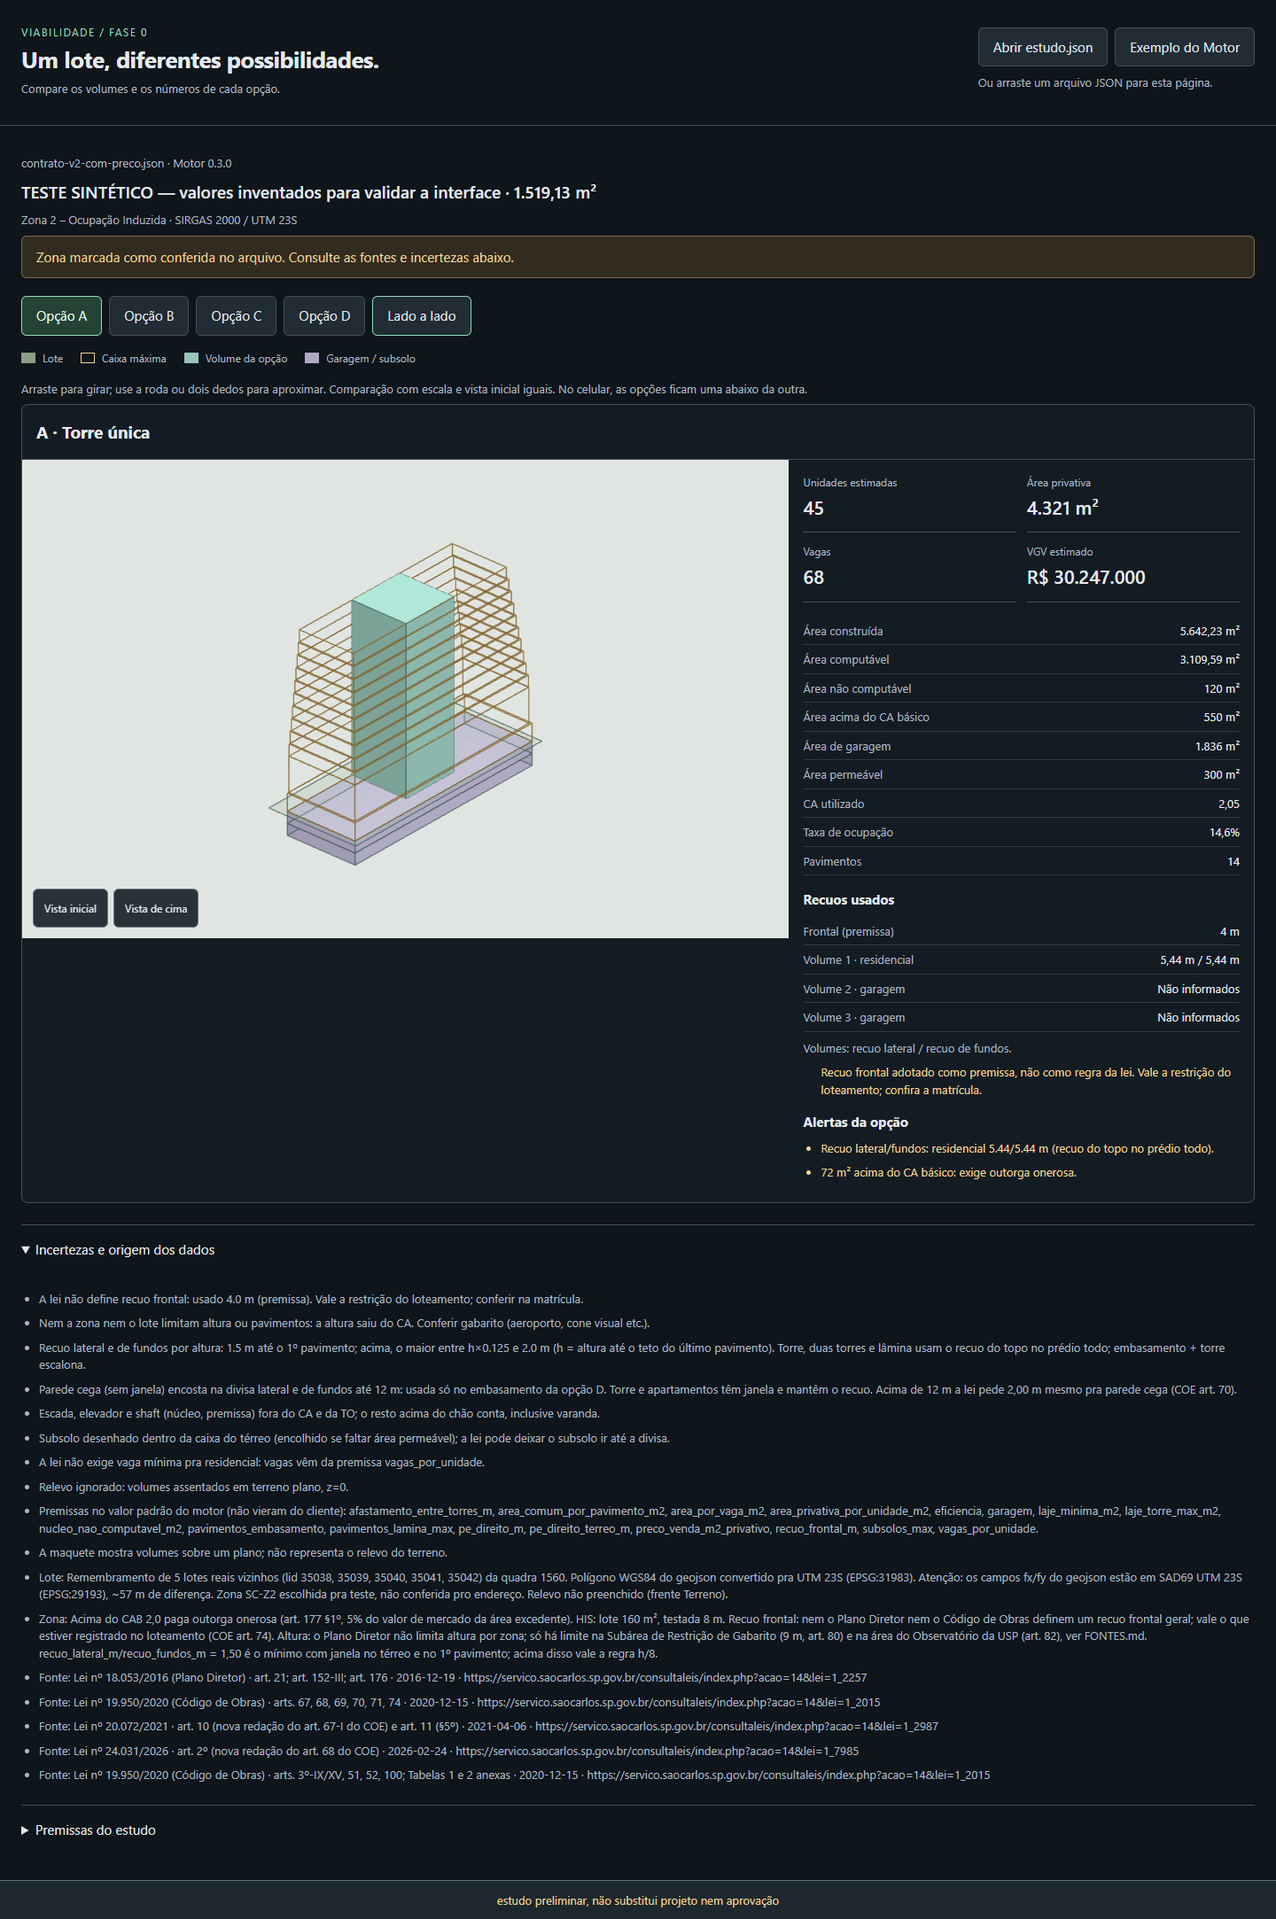
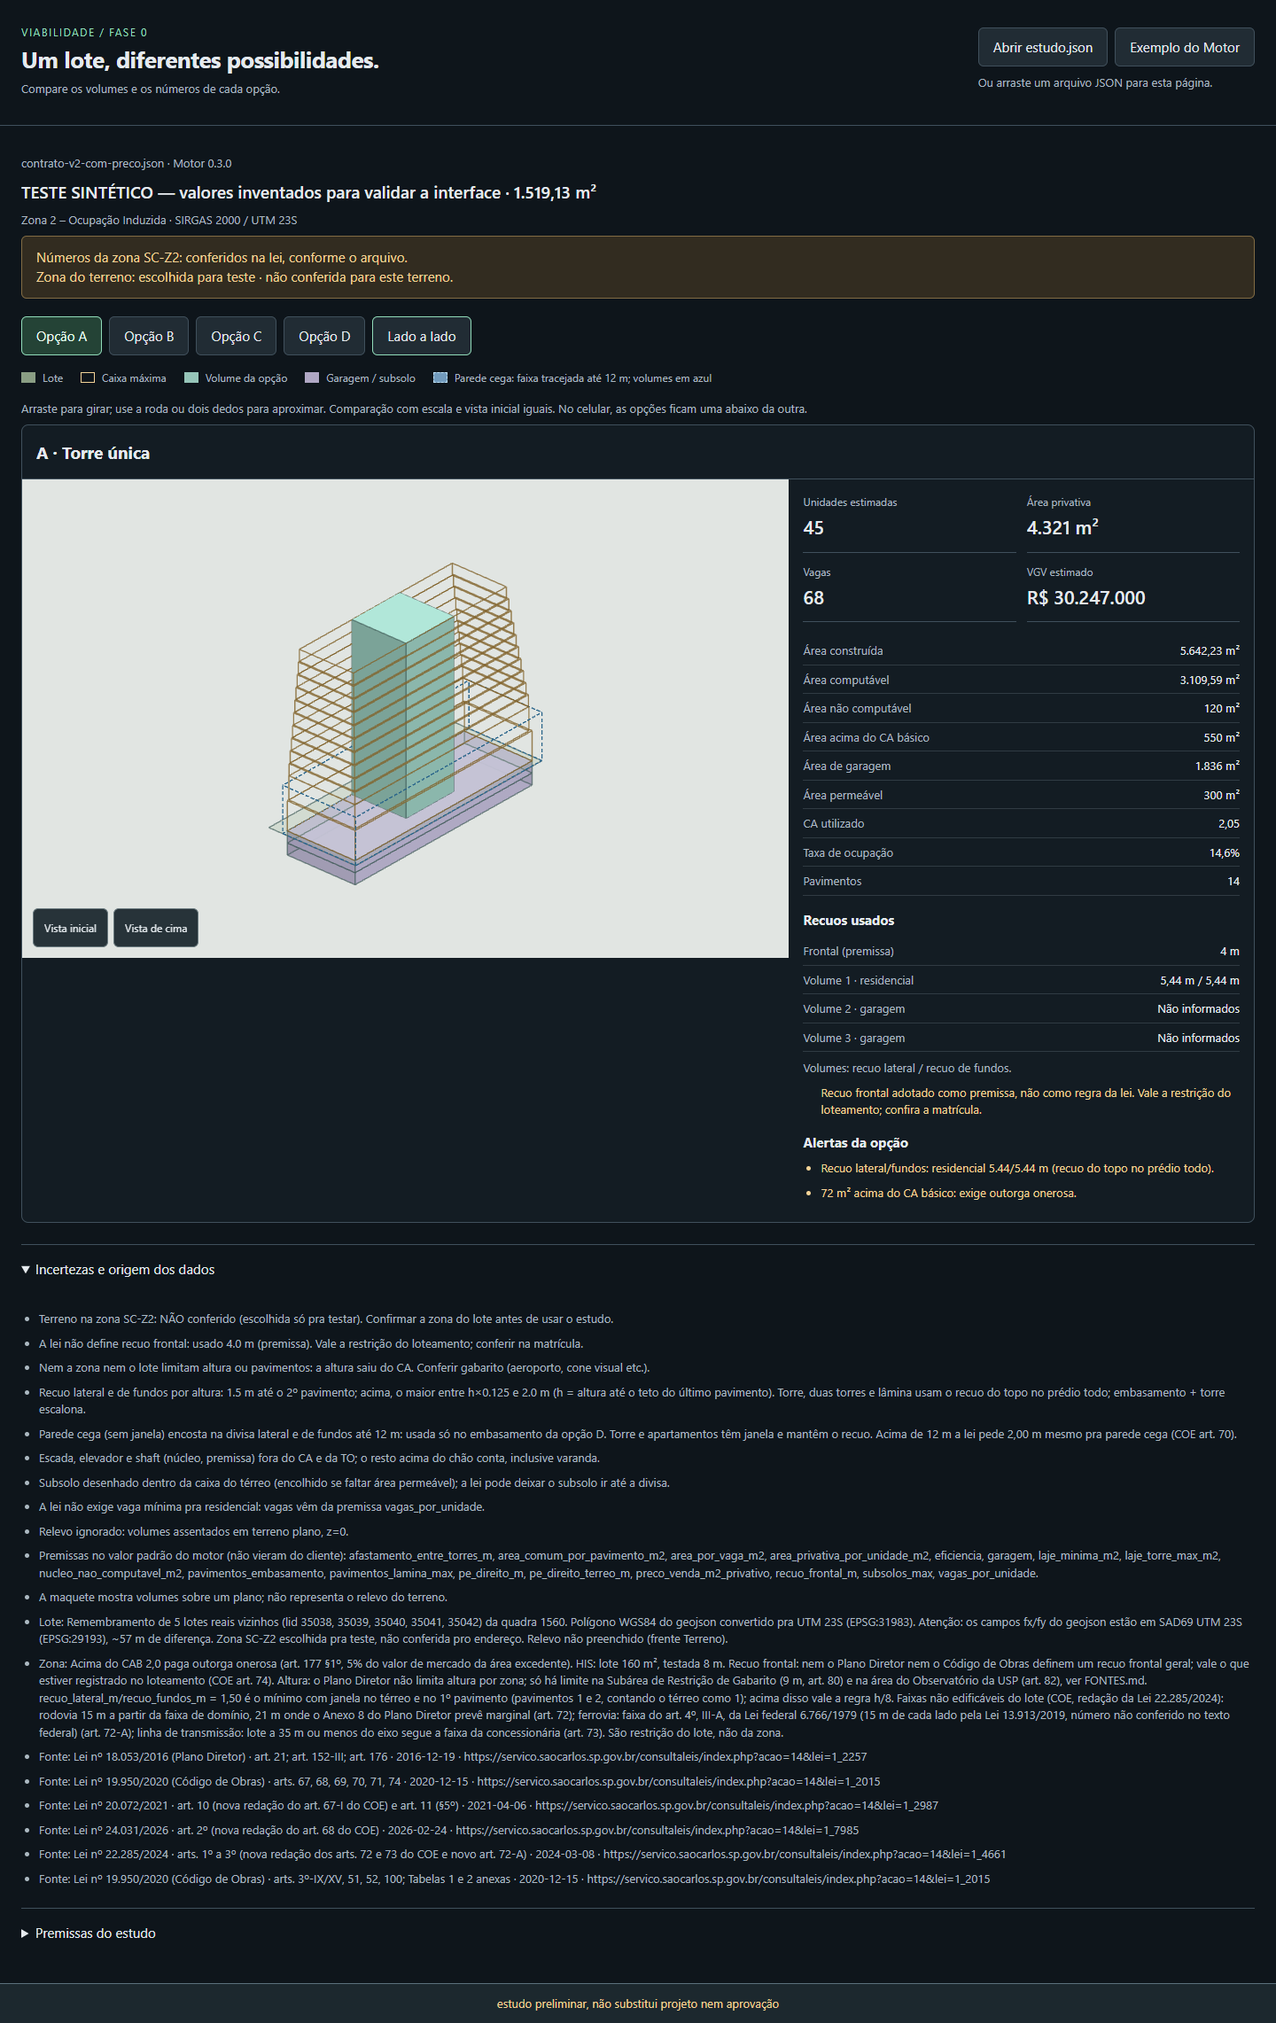
feat(viabilidade): aviso separa 'números da lei' de 'terreno nesta zona' e desenha a parede cega

diff --git a/viabilidade/visual/index.html b/viabilidade/visual/index.html
@@ -8,6 +8,7 @@
   <style>
     :root{color-scheme:dark;font:15px/1.5 system-ui,sans-serif;--page:#0e151b;--surface:#131c23;--raised:#212c34;--line:#40505c;--ink:#e5eaee;--muted:#abb8c1;--accent:#91dcba;--gold:#f3d397;color:var(--ink);background:var(--page)}
     *{box-sizing:border-box}body{margin:0}main,header{max-width:1560px;margin:auto;padding:24px}header{display:flex;align-items:center;justify-content:space-between;gap:24px;border-bottom:1px solid var(--line)}h1{font-size:26px;line-height:1.2;margin:4px 0 8px;letter-spacing:-.5px}h2{font-size:19px;margin:0}h3{font-size:15px;margin:16px 0 8px}p{margin:8px 0}.eyebrow{font-size:12px;letter-spacing:.12em;text-transform:uppercase;color:var(--accent)}.muted,.help{color:var(--muted);font-size:13px}.actions,nav,.legend{display:flex;gap:8px;flex-wrap:wrap;align-items:center}button{font:inherit;min-height:44px;padding:10px 16px;border:1px solid var(--line);border-radius:6px;background:var(--raised);color:var(--ink);cursor:pointer}button:hover{border-color:var(--accent)}button[aria-pressed=true]{background:#244336;border-color:var(--accent);color:#e9fff2}button:focus-visible,summary:focus-visible,canvas:focus-visible{outline:3px solid var(--accent);outline-offset:3px}button:disabled{opacity:.5;cursor:default}#status{overflow-wrap:anywhere}#erro,.notice{padding:12px 16px;border:1px solid #826c44;border-radius:6px;background:#322c20;color:var(--gold)}#erro{border-color:#da9b86;color:#ffd6c8;background:#412b25}#resumo{margin-bottom:20px}#lote{font-size:19px;font-weight:600;overflow-wrap:anywhere}.legend{font-size:12px;color:var(--muted);margin:16px 0}.legend span{display:inline-flex;gap:8px;align-items:center;margin-right:12px}.swatch{display:inline-block;width:16px;height:12px;background:#8a9e84}.swatch.box{background:transparent;border:1px solid #f3d397}.swatch.volume{background:#96c5b9}.swatch.garagem{background:#b0a8c5}nav{margin:16px 0}.cards{display:grid;gap:16px;grid-template-columns:repeat(auto-fit,minmax(min(100%,310px),1fr))}.option{min-width:0;border:1px solid var(--line);border-radius:8px;overflow:hidden;background:var(--surface)}.option>h2{padding:16px;border-bottom:1px solid var(--line)}.viewport{height:340px;position:relative;background:#e1e5e2}.single .option-body{display:grid;grid-template-columns:minmax(0,1.65fr) minmax(280px,1fr)}.single .viewport{height:540px}.viewport canvas{display:block;width:100%;height:100%;touch-action:none}.view-actions{position:absolute;bottom:12px;left:12px;display:flex;gap:6px;flex-wrap:wrap}.view-actions button{font-size:12px;padding:8px 12px;background:#18252bec;border-color:#6b7b80}.metrics{padding:16px}.highlights{display:grid;grid-template-columns:1fr 1fr;gap:12px;margin:0 0 16px}.highlights div{border-bottom:1px solid var(--line);padding-bottom:12px}.highlights dt{font-size:12px;color:var(--muted)}.highlights dd{margin:4px 0 0;font-size:21px;font-weight:600;overflow-wrap:anywhere}.highlights .sem-preco{font-size:14px;line-height:21px;white-space:nowrap}.recuos dd{max-width:55%}.details{margin:0}.details div{display:flex;justify-content:space-between;gap:16px;padding:6px 0;border-bottom:1px solid #303b43;font-size:13px}.details dt{color:var(--muted)}.details dd{margin:0;text-align:right}.alerts{font-size:13px;color:var(--gold);padding-left:20px;margin:8px 0}.alerts li{margin:8px 0}details.context{border-top:1px solid var(--line);margin-top:24px;padding-top:16px}summary{cursor:pointer;min-height:44px;display:list-item}.context ul{padding-left:20px;color:var(--muted);font-size:13px}.context li{margin:8px 0;overflow-wrap:anywhere}#premissas{max-width:800px}footer{padding:12px 24px;background:#1c292ff5;border-top:1px solid #5b707c;color:var(--gold);font-size:13px;text-align:center}.drop{outline:3px dashed var(--accent);outline-offset:-8px}[hidden]{display:none!important}
+    .conferencia-item{display:block}.swatch.cega{background:#729bbd;border:1px dashed #bddff4}.parede-cega{padding:8px;border-left:3px solid #9ec8e6;color:#c2e0f5;font-size:13px}
     @media(max-width:760px){header{align-items:flex-start;flex-direction:column;gap:12px}main,header{padding:16px}h1{font-size:24px}.single .option-body{grid-template-columns:1fr}.single .viewport{height:360px}.actions button{flex:1}.cards{grid-template-columns:1fr}footer{padding:12px 16px}.details{font-size:12px}}
   </style>
   <script type="importmap">{"imports":{"three":"https://cdn.jsdelivr.net/npm/three@0.186.1/build/three.module.js","three/addons/":"https://cdn.jsdelivr.net/npm/three@0.186.1/examples/jsm/"}}</script>
@@ -23,7 +24,7 @@
     <section id="estudo" hidden>
       <div id="resumo"><p id="lote"></p><p id="zona" class="muted"></p><p id="conferencia" class="notice"></p></div>
       <nav id="opcoes" aria-label="Escolha uma opção"></nav>
-      <div class="legend" aria-label="Legenda da maquete"><span><i class="swatch"></i>Lote</span><span><i class="swatch box"></i>Caixa máxima</span><span><i class="swatch volume"></i>Volume da opção</span><span><i class="swatch garagem"></i>Garagem / subsolo</span></div>
+      <div class="legend" aria-label="Legenda da maquete"><span><i class="swatch"></i>Lote</span><span><i class="swatch box"></i>Caixa máxima</span><span><i class="swatch volume"></i>Volume da opção</span><span><i class="swatch garagem"></i>Garagem / subsolo</span><span id="legenda-parede-cega" hidden><i class="swatch cega"></i><span id="texto-parede-cega"></span></span></div>
       <p class="help">Arraste para girar; use a roda ou dois dedos para aproximar. Comparação com escala e vista inicial iguais. No celular, as opções ficam uma abaixo da outra.</p>
       <div id="cards" class="cards single"></div>
       <details class="context" open><summary>Incertezas e origem dos dados</summary><ul id="incertezas"></ul></details>
@@ -41,6 +42,7 @@
     const finito = n => typeof n === 'number' && Number.isFinite(n);
     const formatar = (n, unidade = '') => finito(n) ? numero.format(n) + unidade : 'Não informado';
     const falha = texto => { $('erro').textContent = texto; $('erro').hidden = false; };
+    const temFaixaCega = caixa => finito(caixa.parede_cega_ate_m) && caixa.parede_cega_ate_m > 0 && caixa.projecao_parede_cega_utm?.length >= 3;
     function degrausDaCaixa(caixa) {
       if (!caixa.degraus?.length) return [{ z0_m: 0, altura_m: caixa.altura_m, projecao_utm: caixa.projecao_utm }];
       // O Motor 0.3 fornece cotas de início; a próxima cota delimita cada faixa.
@@ -74,6 +76,12 @@
       }
       const frontal = d.caixa_maxima.recuo_frontal_m;
       if (frontal !== undefined && frontal !== null && (!finito(frontal) || frontal < 0)) throw Error('Caixa máxima: recuo frontal inválido.');
+      const alturaCega = d.caixa_maxima.parede_cega_ate_m, projecaoCega = d.caixa_maxima.projecao_parede_cega_utm;
+      if (alturaCega !== undefined && alturaCega !== null && (!finito(alturaCega) || alturaCega < 0)) throw Error('Parede cega: altura da faixa inválida.');
+      if (projecaoCega !== undefined && projecaoCega !== null) {
+        if (!Array.isArray(projecaoCega)) throw Error('Parede cega: projeção inválida.');
+        if (projecaoCega.length) poligono(projecaoCega, 'Faixa da parede cega');
+      }
       if (d.opcoes.length > 12) throw Error('Abra um estudo com até 12 opções.');
       const ids = new Set();
       for (const o of d.opcoes) {
@@ -83,6 +91,7 @@
         for (const v of o.volumes) {
           poligono(v.base_utm, 'Volume ' + o.id);
           if (!finito(v.z0_m) || !finito(v.altura_m) || v.altura_m < 0) throw Error('Volume ' + o.id + ': base ou altura inválida.');
+          if (v.parede_cega !== undefined && typeof v.parede_cega !== 'boolean') throw Error('Volume ' + o.id + ': parede_cega deve ser verdadeiro ou falso.');
           for (const k of ['recuo_lateral_m', 'recuo_fundos_m']) if (v[k] !== undefined && v[k] !== null && (!finito(v[k]) || v[k] < 0)) throw Error('Volume ' + o.id + ': recuo inválido.');
         }
         for (const [k, v] of Object.entries(o.metricas)) {
@@ -144,7 +153,8 @@
         linha(recuos, 'Volume ' + (i + 1) + ' · ' + (v.uso || 'uso não informado') + (v.parede_cega ? ' (parede cega)' : ''), valor);
       });
       if (frontalPremissa && finito(estudo.caixa_maxima.recuo_frontal_m)) painel.append(el('p', 'Recuo frontal adotado como premissa, não como regra da lei. Vale a restrição do loteamento; confira a matrícula.', 'alerts'));
-      if (o.volumes.some(v => v.parede_cega)) painel.append(el('p', 'A exceção de parede cega informada pelo Motor não está representada na caixa escalonada.', 'help'));
+      const volumesCegos = o.volumes.flatMap((v, i) => v.parede_cega === true ? [i + 1] : []);
+      if (volumesCegos.length) painel.append(el('p', 'Parede cega na divisa: volume(s) ' + volumesCegos.join(', ') + ', em azul, conforme o Motor.' + (temFaixaCega(estudo.caixa_maxima) ? ' Faixa tracejada de 0 a ' + formatar(estudo.caixa_maxima.parede_cega_ate_m, ' m') + '.' : ' A faixa permitida não foi informada.'), 'parede-cega'));
       painel.append(el('h3', 'Alertas da opção'));
       if (o.alertas.length) { const ul = el('ul', undefined, 'alerts'); o.alertas.forEach(a => ul.append(el('li', a))); painel.append(ul); }
       else painel.append(el('p', 'Nenhum alerta informado pelo Motor. Isso não comprova aprovação.', 'muted'));
@@ -156,7 +166,16 @@
       $('zona').textContent = (estudo.zona.nome || estudo.zona.id || 'Zona não informada') + ' · SIRGAS 2000 / UTM 23S';
       const fontes = Array.isArray(estudo.zona.fontes) ? estudo.zona.fontes : [];
       const conferido = estudo.zona.conferido === true && fontes.length > 0 && fontes.every(f => ['lei', 'artigo', 'url', 'data'].every(k => typeof f[k] === 'string' && f[k].trim()));
-      $('conferencia').textContent = conferido ? 'Zona marcada como conferida no arquivo. Consulte as fontes e incertezas abaixo.' : 'Não conferido: parâmetros da zona sem validação ou sem fonte. Os números não comprovam viabilidade legal.';
+      const lei = el('span', 'Números da zona ' + (estudo.zona.id || '') + ': ' + (conferido ? 'conferidos na lei, conforme o arquivo.' : 'não conferidos ou sem fonte completa.'), 'conferencia-item'); lei.id = 'conferencia-lei';
+      const origem = estudo.lote.zona_origem;
+      const origemTexto = origem === 'oficial' ? 'mapa digital oficial' : origem === 'anotada_a_mao' ? 'anotada à mão no anexo' : origem === 'teste' ? 'escolhida para teste' : 'origem não informada ou não reconhecida';
+      const mesmaZona = typeof estudo.zona.id === 'string' && estudo.zona.id.trim().length > 0 && estudo.lote.zona_id === estudo.zona.id;
+      const loteConferido = estudo.lote.zona_conferida === true && ['oficial', 'anotada_a_mao'].includes(origem) && mesmaZona;
+      const lote = el('span', 'Zona do terreno: ' + origemTexto + ' · ' + (loteConferido ? 'conferida no arquivo.' : 'não conferida para este terreno.') + (!mesmaZona ? ' Os identificadores da zona estão ausentes ou diferem entre lote e estudo.' : ''), 'conferencia-item'); lote.id = 'conferencia-lote';
+      $('conferencia').replaceChildren(lei, lote);
+      const faixaCega = temFaixaCega(estudo.caixa_maxima);
+      $('legenda-parede-cega').hidden = !faixaCega && !estudo.opcoes.some(o => o.volumes.some(v => v.parede_cega === true));
+      $('texto-parede-cega').textContent = faixaCega ? 'Parede cega: faixa tracejada até ' + formatar(estudo.caixa_maxima.parede_cega_ate_m, ' m') + '; volumes em azul' : 'Volumes com parede cega em azul';
       const incertezas = [...(estudo.incertezas || []), 'A maquete mostra volumes sobre um plano; não representa o relevo do terreno.'];
       if (estudo.lote.observacoes) incertezas.push('Lote: ' + estudo.lote.observacoes);
       if (estudo.zona.observacoes) incertezas.push('Zona: ' + estudo.zona.observacoes);
@@ -222,8 +241,14 @@
         const edges = new THREE.EdgesGeometry(g); g.dispose();
         scene.add(new THREE.LineSegments(edges, new THREE.LineBasicMaterial({ color: 0x82642d, transparent: true, opacity: .8 })));
       }
-      opcao.volumes.forEach(v => solido(geometria(v.base_utm, v.altura_m, v.z0_m), v.z0_m < 0 || /garagem|subsolo/i.test(v.uso || '') ? 0xb0a8c5 : v.uso === 'embasamento' ? 0xc2c8c1 : 0x96c5b9, v.z0_m < 0 ? .75 : 1));
-      let topo = caixa.altura_m, base = 0;
+      if (temFaixaCega(caixa)) {
+        const g = geometria(caixa.projecao_parede_cega_utm, caixa.parede_cega_ate_m);
+        const edges = new THREE.EdgesGeometry(g); g.dispose();
+        const faixa = new THREE.LineSegments(edges, new THREE.LineDashedMaterial({ color: 0x28648a, dashSize: 1, gapSize: .5 }));
+        faixa.computeLineDistances(); scene.add(faixa);
+      }
+      opcao.volumes.forEach(v => solido(geometria(v.base_utm, v.altura_m, v.z0_m), v.parede_cega === true ? 0x729bbd : v.z0_m < 0 || /garagem|subsolo/i.test(v.uso || '') ? 0xb0a8c5 : v.uso === 'embasamento' ? 0xc2c8c1 : 0x96c5b9, v.z0_m < 0 ? .75 : 1));
+      let topo = Math.max(caixa.altura_m, temFaixaCega(caixa) ? caixa.parede_cega_ate_m : 0), base = 0;
       estudo.opcoes.forEach(o => o.volumes.forEach(v => { topo = Math.max(topo, v.z0_m + v.altura_m); base = Math.min(base, v.z0_m); }));
       const tamanho = Math.max(maxX - minX, maxY - minY, topo - base, 1), alvo = new THREE.Vector3(0, (topo + base) / 2, 0);
       camera.far = tamanho * 30; controls.target.copy(alvo);

diff --git a/viabilidade/visual/README.md b/viabilidade/visual/README.md
@@ -8,8 +8,10 @@ python -m http.server 8765 --bind 127.0.0.1
 
 Abra `http://127.0.0.1:8765/viabilidade/visual/`.
 O exemplo padrão é `../motor/exemplos/estudo-exemplo.json`, produzido pelo Motor.
-O Motor 0.3.0 usa lote real e zona SC-Z2. As premissas e restrições ainda
-precisam ser conferidas; o estudo não é uma conclusão de viabilidade legal.
+O Motor 0.3.0 usa lote real e números da zona SC-Z2 conferidos na lei.
+A zona foi escolhida para teste: não foi confirmado que o terreno pertence
+a ela. O aviso distingue essas duas conferências; o estudo não é uma
+conclusão de viabilidade legal.
 
 Para outro estudo, use `?estudo=caminho/estudo.json` (relativo à página),
 o botão **Abrir estudo.json** ou arraste o arquivo para a página.
@@ -24,12 +26,19 @@ de acesso à CDN e WebGL. Sem o 3D, as métricas continuam disponíveis.
   O frontal aparece como premissa quando a zona não o define; recuos
   ausentes (por exemplo, na garagem) aparecem como não informados.
 - Garagem/subsolo com outra cor e lote transparente quando há subsolo.
+- Faixa de parede cega em linha azul tracejada, da cota zero até a altura
+  informada em `parede_cega_ate_m`, com a projeção recebida do Motor.
+  Volumes com `parede_cega: true` ficam azuis e identificados no painel.
 - Troca de opção e comparação lado a lado; no celular, comparação vertical.
 - Vista inicial e vista de cima por botões acessíveis pelo teclado.
 - Unidades, área privativa, vagas e VGV em destaque. Sem preço informado,
   aparece **Informe o preço**; o preço deve entrar no estudo pelo Motor.
 - Demais métricas v2, alertas, fontes, incertezas e premissas identificadas
   como **padrão**, conforme o arquivo. Ausente ou `null` não vira zero.
+- Contrato v4: `zona.conferido` indica conferência dos números da lei;
+  `lote.zona_origem` e `lote.zona_conferida` indicam a situação do terreno.
+  Origem de teste, ausente ou não reconhecida nunca aparece como conferida.
+  O vínculo também não é confirmado se os identificadores de zona divergem.
 - Aviso de estudo preliminar no fluxo da página, sem cobrir botões ou alertas.
 
 O Visual exibe os cálculos recebidos; não calcula preço, VGV, legislação ou
@@ -60,3 +69,6 @@ arquitetura ou validação legal. A vista inicial usa escala comum entre as
 opções; câmeras podem ser giradas separadamente. Arquivos de até 10 MB,
 12 opções e 200 volumes por opção. Não verifica interseções de polígonos.
 Sem commit ou publicação: a integração fica com a central.
+Nenhuma fonte bloqueada foi encontrada nesta rodada. Se houver bloqueio,
+vale a regra do projeto: registrar em `viabilidade/BLOQUEIOS.md`, sem
+contornar a restrição, e manter o dado pendente como não conferido.

diff --git a/viabilidade/visual/RELATORIO.md b/viabilidade/visual/RELATORIO.md
@@ -1,13 +1,13 @@
-# Ajustes da frente Visual — contrato v3
+# Ajustes 2 da frente Visual — contrato v4
 
-- `index.html`: aviso no fluxo da página, sem cobrir botões ou alertas; VGV sem preço menor e sem quebra.
-- Caixa máxima desenhada por degraus, respeitando projeção, cota inicial e altura de cada faixa.
-- Recuos lateral/fundos por volume e frontal de cada opção; valores ausentes não viram zero.
-- Frontal destacado como premissa, com aviso de restrição do loteamento e conferência da matrícula.
-- Exemplo atual do Motor 0.3.0, zona SC-Z2, opções A–D; README atualizado.
-- Contrato: o exemplo omite `altura_m` dos degraus. O Visual usa próximo `z0_m` ou topo da caixa; aceita altura explícita e mantém caixa simples em arquivos antigos.
-- `evidencias/`: 14 capturas de página renovadas e 2 dos degraus; opção B, comparação e celular conferidos sem cortes ou sobreposição.
-- Chrome headless PASS: 12 degraus, alturas explícitas/inferidas equivalentes, caixa antiga, recuos zero/ausentes e 14 entradas inválidas preservando o estudo.
-- Sem erros de console ou overflow em 320/390/768/1024/1440 px; resultados em `evidencias/teste-browser.json`, regressões em `testar.cjs`.
+- Aviso separa números da lei (`zona.conferido` + fontes) do vínculo entre terreno e zona (`lote.zona_origem`/`zona_conferida`).
+- Origem de teste, campos ausentes, identificadores vazios ou divergentes nunca aparecem como vínculo confirmado.
+- Faixa de parede cega desenhada em azul tracejado, de zero até a altura e projeção informadas pelo Motor.
+- Volumes `parede_cega: true` ficam azuis, com identificação no painel e nos recuos; ausente não é inventado.
+- Exemplo atual não marca volumes cegos: teste sintético identificado verifica a cor e a marcação sem alterar o Motor.
+- `index.html`, `README.md`, `testar.cjs` e `evidencias/` atualizados; 18 capturas renovadas e resultado em `teste-browser.json`.
+- Chrome headless PASS: dez combinações de conferência, faixa/volumes cegos, compatibilidade e 19 entradas inválidas; zero erros de console e sem overflow em cinco larguras.
+- Capturas desktop/celular conferidas: avisos distintos, faixa tracejada visível, volume marcado e aviso preliminar sem sobreposição.
+- Nenhuma fonte bloqueada nesta frente; não foi necessário acrescentar registro em `viabilidade/BLOQUEIOS.md`.
 - Somente `viabilidade/visual/` alterada; sem commit nem publicação. Integração pela central.
-- Limites: sem aparelho físico, validação legal ou relevo; 3D depende de CDN/WebGL e o Motor pode amostrar os degraus.
+- Limites: sem aparelho físico, validação legal ou relevo; 3D depende de CDN/WebGL.
